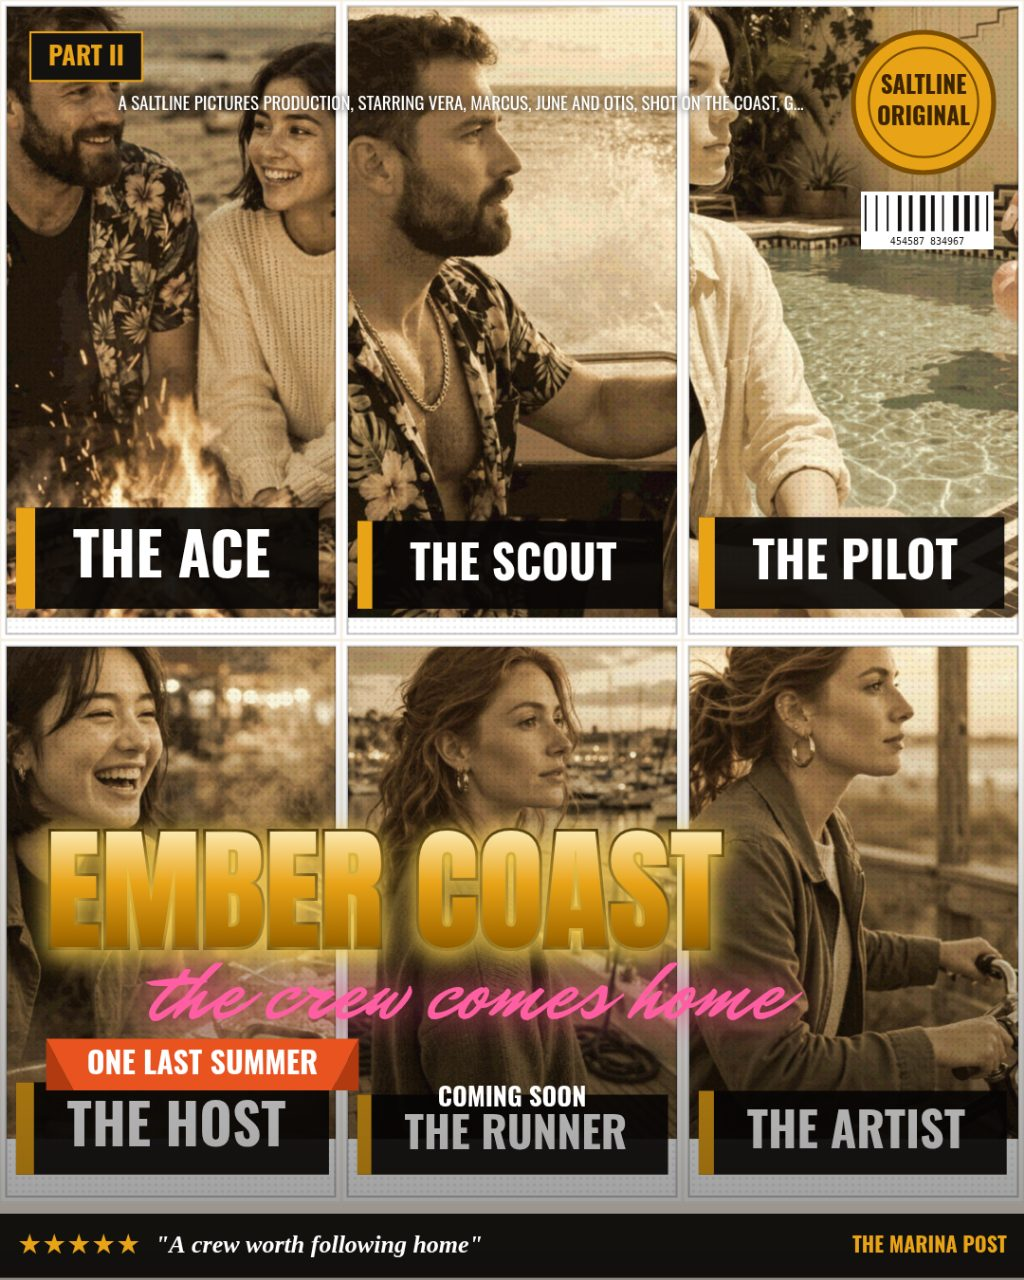
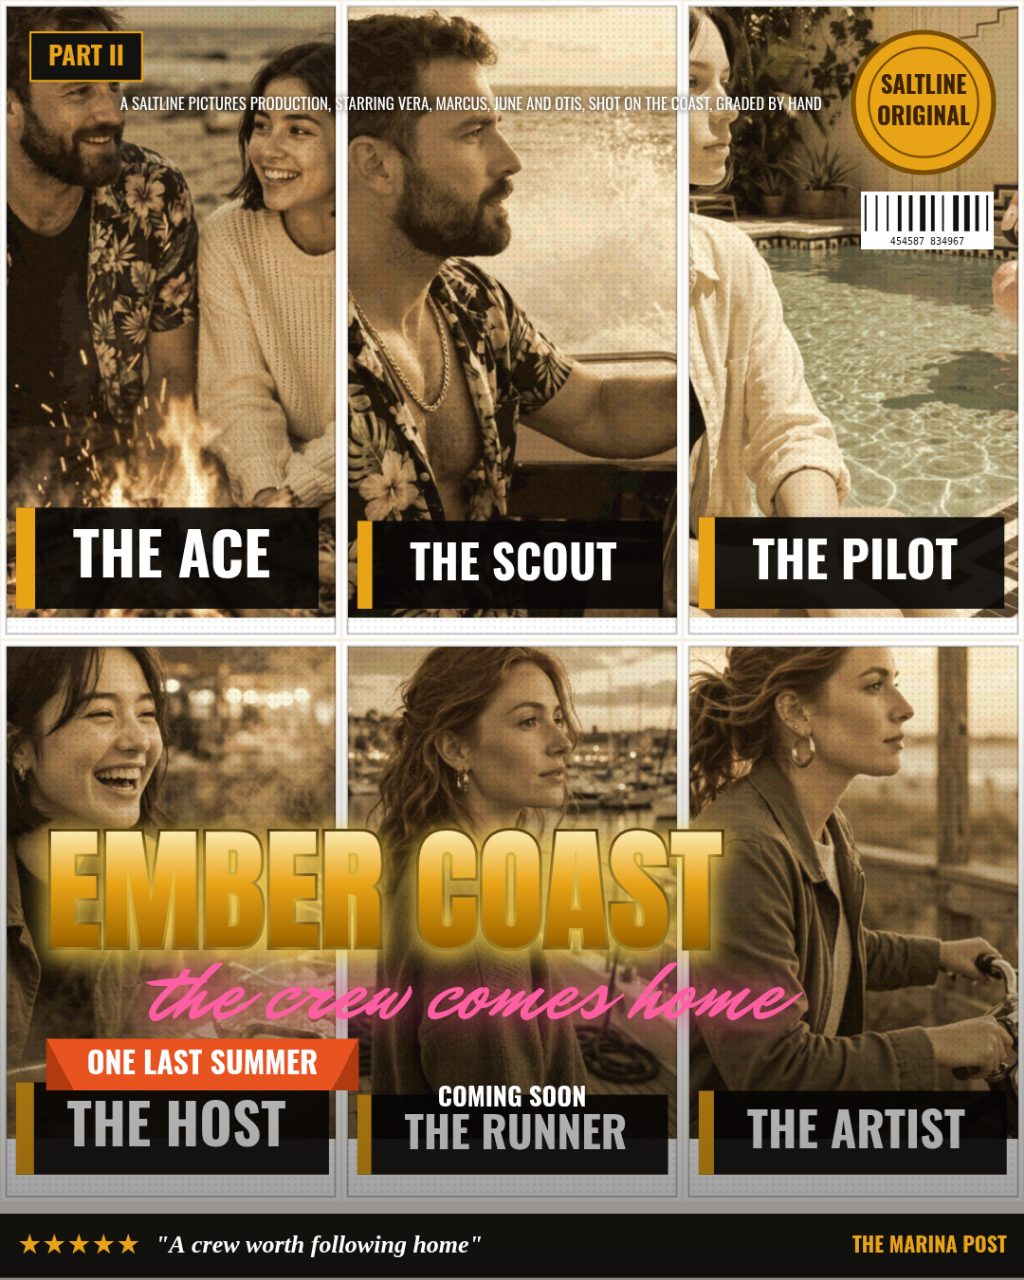
Saltline: billing line shrink-to-fit, never truncated
drawBillingLine now measures with the live font at draw time and shrinks
x0.92 per step to a floor of max(8px, 0.55x requested) instead of cutting
the text with '...'; if it still does not fit at the floor it wraps via
drawBillingBlock (2 lines, centred on the same y). Billing box widened
0.12W/0.66W -> 0.10W/0.72W (right edge 0.82W stays clear of the barcode
at 0.84W). Fixes cover 1 (16:9) losing the final 'D' and cover 3 (4:5)
ending in 'G...'. Final sizes in capture: 16:9 15px, 4:5 19->17px,
1:1 15px; billing widths 650/737/650px vs boxes 1382/778/778px.

Changed region(s): [[0.125, 0.0625, 0.8125, 0.0938]]

diff --git a/app/src/lettering/poster-finish.js b/app/src/lettering/poster-finish.js
@@ -109,20 +109,38 @@ export function drawQuoteBar(ctx, x, y, w, quote, outlet, fontSize) {
 }
 
 export function drawBillingLine(ctx, x, y, w, text, fontSize) {
+  const full = text.toUpperCase();
+  // Shrink the line until the whole billing fits inside its box, measuring
+  // with whatever font is actually live at draw time: Oswald can still be
+  // loading when a capture draws, and the fallback then measures far wider
+  // than Oswald, so a size picked from Oswald's metrics alone would not
+  // fit. Never cut the text: a billing that ends in "..." reads as a
+  // broken poster. Returns the font size the billing was drawn at.
+  const floor = Math.max(8, Math.round(fontSize * 0.55));
+  let size = fontSize;
   ctx.save();
-  ctx.font = `${fontSize}px Oswald, sans-serif`;
+  ctx.font = `${size}px Oswald, sans-serif`;
   ctx.textAlign = 'center';
   ctx.textBaseline = 'middle';
-  let shown = text.toUpperCase();
-  while (ctx.measureText(shown).width > w && shown.length > 12) {
-    shown = shown.slice(0, -1);
+  while (ctx.measureText(full).width > w && size > floor) {
+    const next = Math.max(floor, Math.round(size * 0.92));
+    if (next >= size) break;
+    size = next;
+    ctx.font = `${size}px Oswald, sans-serif`;
   }
-  if (shown.length < text.length) shown = `${shown.trim()}...`;
+  if (ctx.measureText(full).width > w) {
+    // Even at the floor the line does not fit: wrap it over two lines,
+    // centred on the same y, instead of dropping any of it.
+    ctx.restore();
+    drawBillingBlock(ctx, x, y - size * 1.15, w, text, size);
+    return size;
+  }
   ctx.shadowColor = 'rgba(0, 0, 0, 0.85)';
-  ctx.shadowBlur = Math.round(fontSize * 0.4);
+  ctx.shadowBlur = Math.round(size * 0.4);
   ctx.fillStyle = '#fff';
-  ctx.fillText(shown, x + w / 2, y);
+  ctx.fillText(full, x + w / 2, y);
   ctx.restore();
+  return size;
 }
 
 export function drawBillingBlock(ctx, x, y, w, text, fontSize) {

diff --git a/app/src/render/render-cover.js b/app/src/render/render-cover.js
@@ -175,7 +175,10 @@ export function drawFinishLayer(ctx, doc, W, H, accent) {
   drawBarcode(ctx, W - barW - Math.round(W * 0.03), sealR * 2 + Math.round(H * 0.04), barW, barH, barcodeNumber(doc.title.length * 7919 + doc.panels.length * 131));
   // Billing block: one centred line under the top row, between the volume
   // tag and the seal, so the bottom band stays free for the callout tags.
-  drawBillingLine(ctx, W * 0.12, H * 0.082, W * 0.66, doc.billing, Math.round(H * 0.014));
+  // The box runs 0.10W..0.82W: its right edge stays clear of the barcode
+  // (which starts at 0.84W) and its left edge stays clear of the volume
+  // tag, while the extra width gives the billing room to fit whole.
+  drawBillingLine(ctx, W * 0.10, H * 0.082, W * 0.72, doc.billing, Math.round(H * 0.014));
   // Coming soon, centred above the quote bar.
   if (doc.comingSoon) drawComingSoon(ctx, 0, H * 0.858, W, Math.round(H * 0.02));
   // Five-star review-quote bar along the bottom edge.
